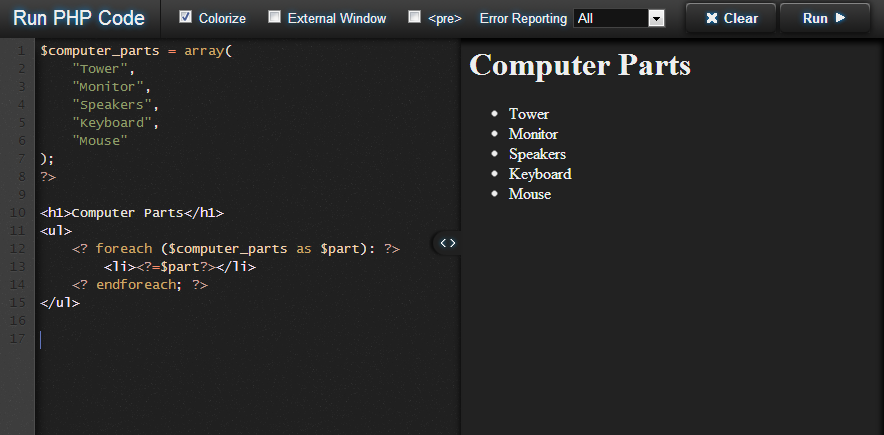
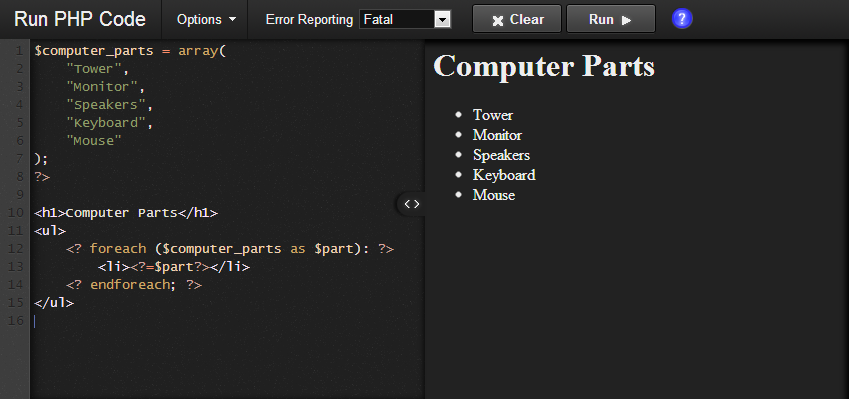
Fix screen shot, add help window, add Options dropdown

diff --git a/css/run_php_code.css b/css/run_php_code.css
@@ -38,16 +38,20 @@ form { padding: 0; margin: 0; }
 
 #button_container { text-align: center; display: inline; }
 #button_container label { margin-left: 14px; }
+#button_container img { vertical-align: middle; }
+#help { margin: -5px 0 0 10px; cursor: pointer; }
+#help_window { display: none; border: 1px solid #141414; background-color: #282828; position: fixed; width: 270px; height: 200px; left: 50%; top: 50%; margin-left: -130px; margin-top: -100px; z-index: 9999; padding: 20px; }
+#help_window h2 { margin-top: 0; }
+#help_window a { color: #fff; }
 
 #title_bar select { background-color: #141414; color: #eee; border: 1px solid #444; }
 
 #php_frame { border: none; background-color: #fff; float: right; width: 50%; }
 
-#resize_ball { position: fixed; width: 32px; height: 32px; z-index: 9999; cursor: e-resize; }
+#resize_ball { position: fixed; width: 32px; height: 32px; z-index: 9995; cursor: e-resize; }
 
-input[type="checkbox"] {
-    display: none;
-}
+input[type="checkbox"] { display: none; }
+input[type="checkbox"] + label { cursor: pointer; }
 input[type="checkbox"] + label  span {
 	display: inline-block;
 	vertical-align: middle;
@@ -57,6 +61,10 @@ input[type="checkbox"] + label  span {
     background: url(../img/check_radio_sprite.png) left top no-repeat;
     cursor: pointer;
 }
-input[type="checkbox"]:checked + label span{
-    background: url(../img/check_radio_sprite.png) -19px top no-repeat;
-}
+input[type="checkbox"]:checked + label span { background: url(../img/check_radio_sprite.png) -19px top no-repeat; }
+
+/* Navigation Menu */
+.drop { position: relative; display: inline-block; padding: 0 25px 0 15px; border-right: 1px solid #141414; background-image: url(../img/drop.png); background-position: right center; background-repeat: no-repeat; cursor: pointer; }
+.drop div { display: none; position: absolute; z-index: 9997; width: 200px; background-color: #282828; line-height: 30px; padding: 5px 5px 5px 10px; left: 0; border: 1px solid #141414; box-shadow: 5px 5px 5px #111;
+	-webkit-touch-callout: none; -webkit-user-select: none; -khtml-user-select: none; -moz-user-select: none; -ms-user-select: none; user-select: none;user-select: none; }
+.drop:hover div { display: block; }

diff --git a/js/run_php_code.js b/js/run_php_code.js
@@ -13,6 +13,9 @@ $(function() {
 		extraKeys: { 'Ctrl-Enter': function() { $('#run_php_form').submit(); } }
 	});
 	
+	$('#help').click(function() { $('#help_window').show(); });
+	$('#btn_close_help').click(function() { $('#help_window').hide(); });
+	
 	$('#reset').click(function() {
 		var answer = confirm("Are you sure you want to clear the editor?");
 		if (answer) { 

diff --git a/css/colorize.css b/css/colorize.css
@@ -1,4 +1,5 @@
 html {
+	width: 100%;
 	background-color: #222;
 	box-shadow: inset -5px 5px 8px #000;
 	color: #eee;

diff --git a/index.php b/index.php
@@ -69,10 +69,16 @@ if (isset($_POST['phprun_action']) && $_POST['phprun_action'] == 'run')
 			
 			<div id="title_bar">
 				<div id="title">Run PHP Code</div>
+				
+				<div class="drop">Options
+					<div>
+						<input type="checkbox" id="colorize" name="colorize" checked="checked" /><label for="colorize"><span></span> Colorize</label><br />
+						<input type="checkbox" id="external_window" /><label for="external_window"><span></span> External Window</label><br />
+						<input type="checkbox" id="pre_wrap" name="pre_wrap" /><label for="pre_wrap"><span></span> &lt;pre&gt;</label><br />
+					</div>
+				</div>
+					
 				<div id="button_container">
-					<input type="checkbox" id="colorize" name="colorize" checked="checked" /><label for="colorize"><span></span> Colorize</label>
-					<input type="checkbox" id="external_window" /><label for="external_window"><span></span> External Window</label>
-					<input type="checkbox" id="pre_wrap" name="pre_wrap" /><label for="pre_wrap"><span></span> &lt;pre&gt;</label>
 					<label>
 						Error Reporting
 						<select name="error_reporting">
@@ -86,6 +92,8 @@ if (isset($_POST['phprun_action']) && $_POST['phprun_action'] == 'run')
 					</label>
 					<button class="btn" type="button" id="reset"><img src="img/clear.png" class="icon" /> Clear</button>
 					<button class="btn" type="submit" id="run" title="Run (Ctrl+Enter)">Run <img src="img/run.png" class="icon" /></button>
+					
+					<img id="help" src="img/help.png" style="" />
 				</div>
 			</div>
 			
@@ -94,6 +102,21 @@ if (isset($_POST['phprun_action']) && $_POST['phprun_action'] == 'run')
 		
 		<iframe id="php_frame" name="run_php_code">
 		</iframe>
+		
+		<div id="help_window">
+			<h2>Run PHP Code</h2>
+			<ul>
+				<li>Ctrl-Enter to Run Code</li>
+				<li>Opening <b>&lt?php</b> tag is optional</li>
+			</ul>
+			
+			<div style="text-align: center;">
+				<br />
+				<a href="https://github.com/websiteduck/Run-PHP-Code">GitHub Repo</a>
+				<br /><br /><br />
+				<button class="btn" id="btn_close_help">Close</button>
+			</div>
+		</div>
 		
 	</body>
 </html>

diff --git a/README.md b/README.md
@@ -3,7 +3,7 @@ Run PHP Code
 
 This script gives you the ability to quickly test snippets of PHP code locally.  
 
-![screenshot](https://github.com/websiteduck/Run-PHP-Code/raw/master/screenshot.png)  
+![screenshot](https://github.com/websiteduck/Run-PHP-Code/raw/master/img/screenshot.png)  
 
 ### Run PHP Code utilizes the following projects:
 
